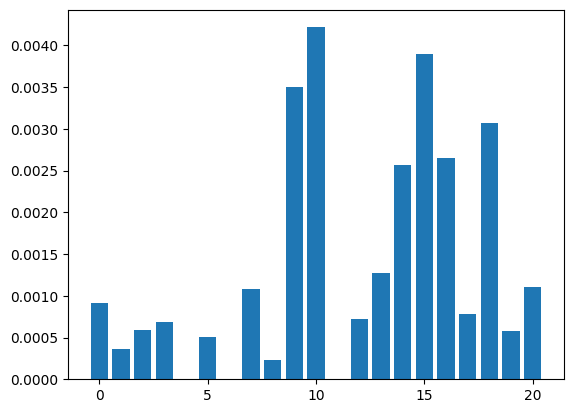
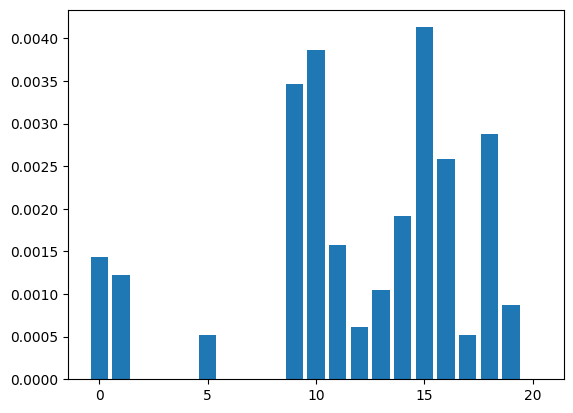
small modification to cv

diff --git a/process-ultimate.py b/process-ultimate.py
@@ -260,7 +260,7 @@ print(counter)
 
 # Random Search CV
 print("Random Search CV...")
-model = RandomForestClassifier()
+model = RandomForestClassifier(n_jobs=-1)
 # repeated KFold repeats a single KFold process for n_repeats number of times
 # on each repeat, the KFolds are partitioned randomly 
 cv = RepeatedStratifiedKFold(n_splits=5, n_repeats=10, random_state=0)
@@ -282,7 +282,7 @@ pprint(space)
 # (or that the set of parameter setting tried by the algorithm is given by n_iter). Each set of parameters is a random sample from the grid/search space
 # since we're ysing repeated k folds, each set of parameters is cross validated for n_repeats number of times (defined in cv), and each time it is
 # a KFold cross validation
-search = RandomizedSearchCV(estimator=model, param_distributions=space, n_iter=500, scoring='f1_weighted', n_jobs=-1, cv=cv, random_state=0)
+search = RandomizedSearchCV(estimator=model, param_distributions=space, n_iter=1000, scoring='f1_weighted', n_jobs=-1, cv=cv, random_state=0)
 # after everything is defined, fit the random search CV to training data to initiate the random search cv process
 # the output would 
 s_time = time.perf_counter()
